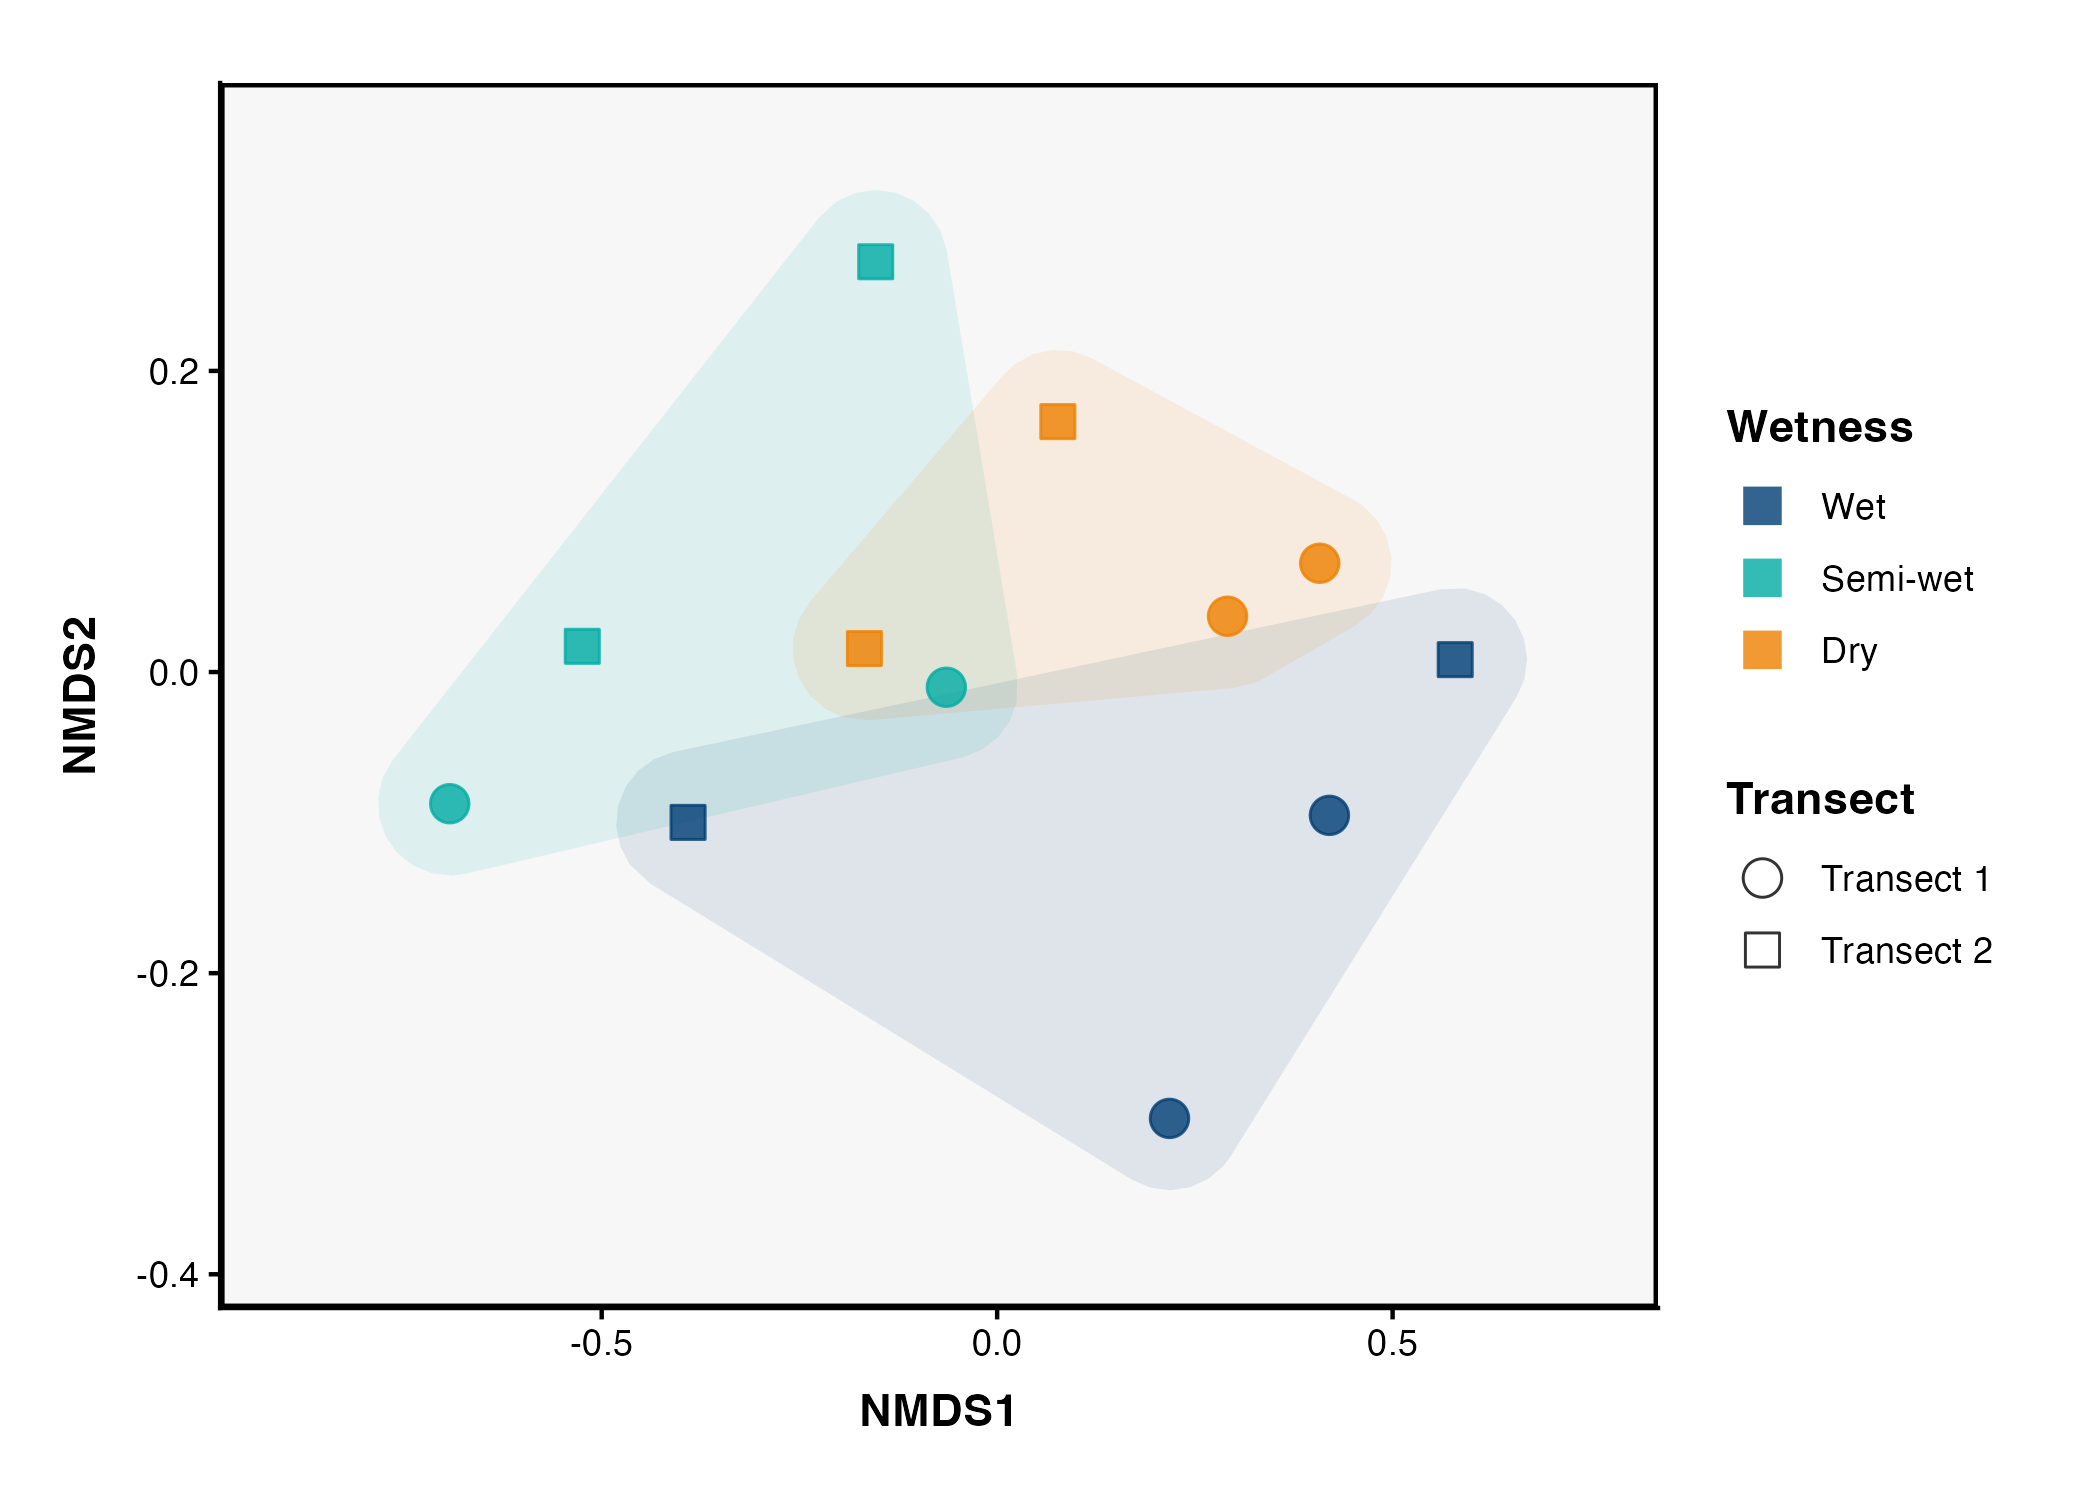
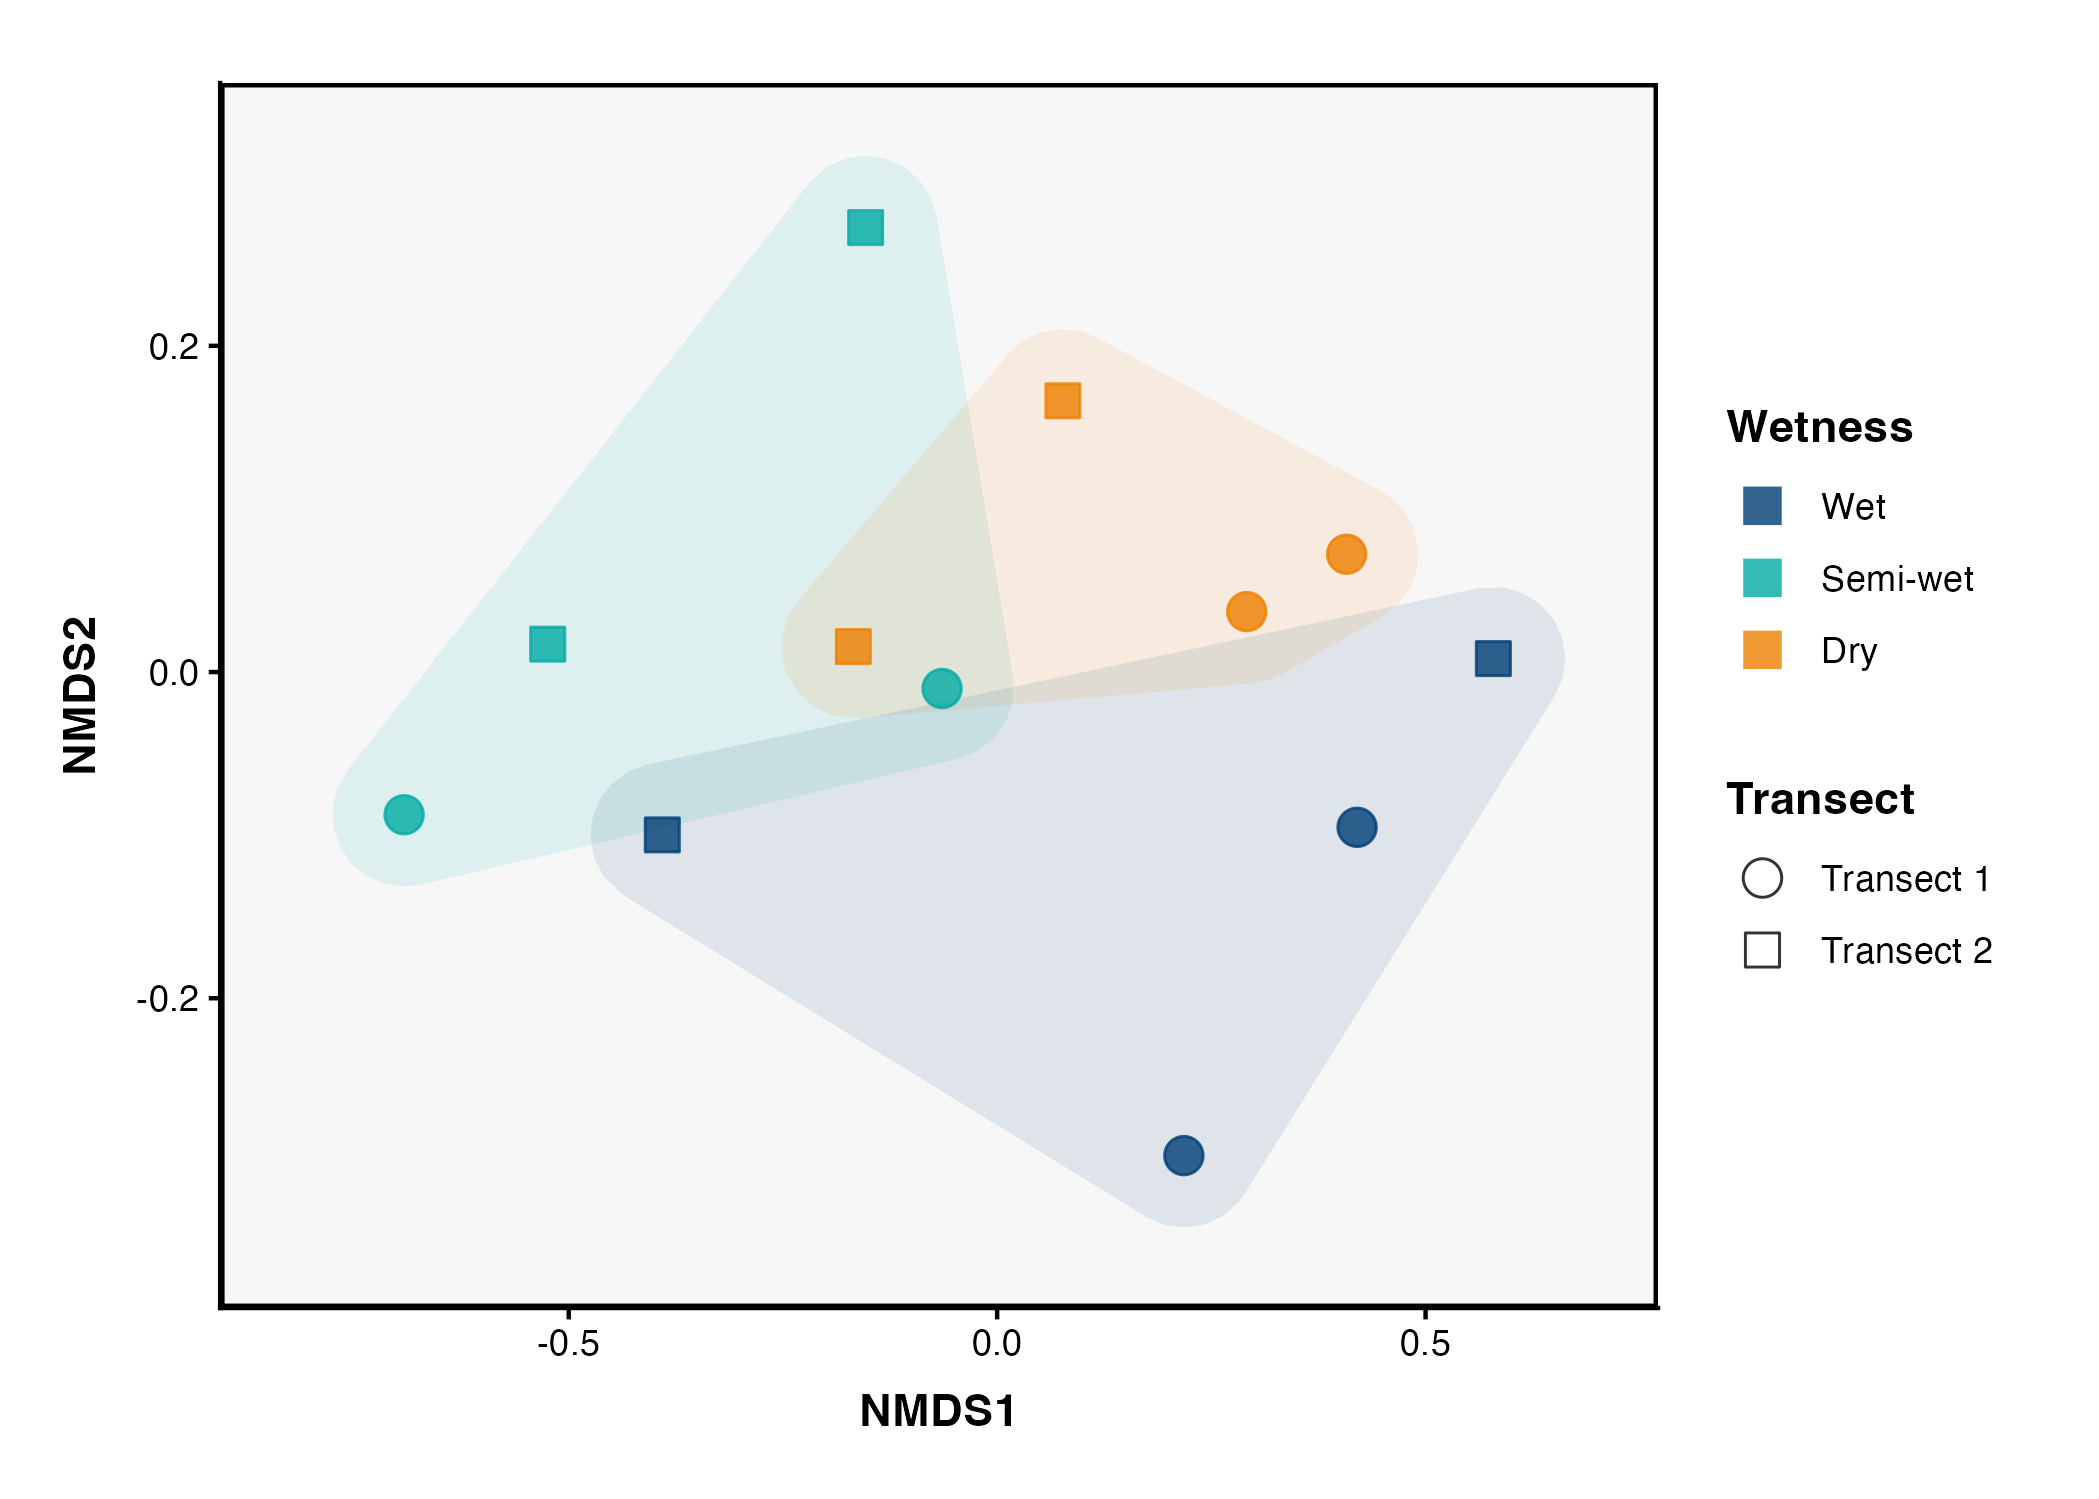
Update NMDS plot in README.

diff --git a/README.md b/README.md
@@ -118,7 +118,7 @@ nmds_plot <- vis_nmds(qaanaaq_rRNA_sub,
                       fill_circle = TRUE,
                       smooth_circle = 0.05,
                       scale_circle = 0.05,
-                      scale_plot = 0.3,
+                      scale_plot = 0.2,
                       circle_edge_size = 0)
 ```
 
